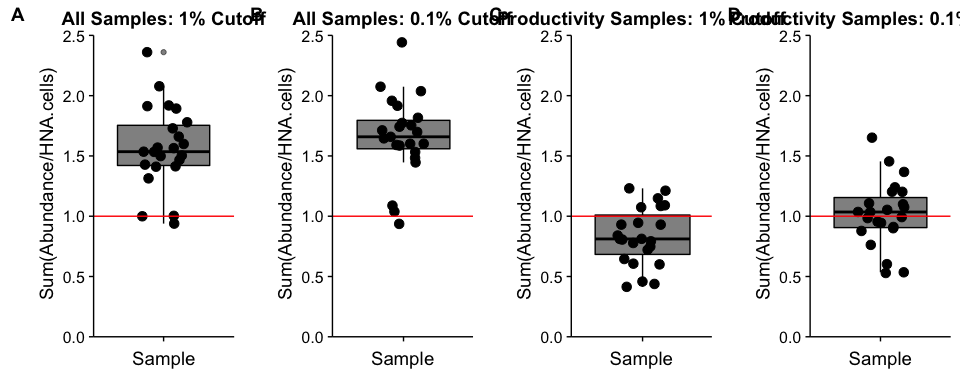
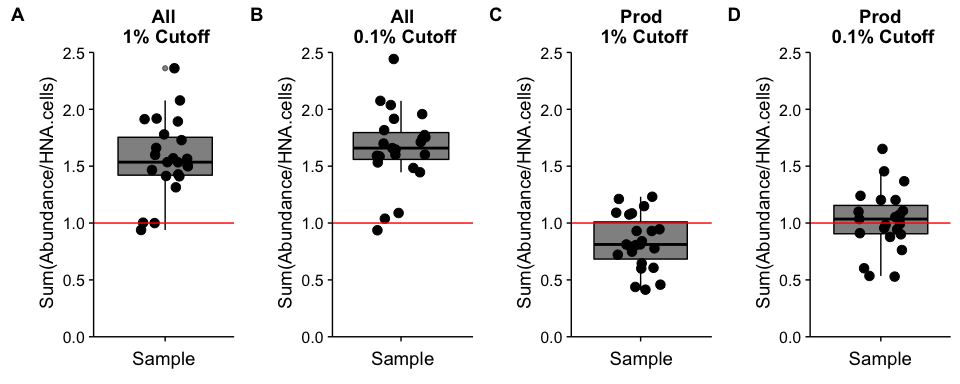
small figure fix

diff --git a/Final/OutliersRemoved/Selected OTUs/selected_otu_analysis.md b/Final/OutliersRemoved/Selected OTUs/selected_otu_analysis.md
@@ -246,7 +246,7 @@ HNA_frac_otus_stand_0.01 <- calc_fraction_HNA(AbsAbund_OTUs = AbsAbund_otus_stan
 plot1 <- ggplot(HNA_frac_otus_stand_0.01, 
        aes(y = sum_fracHNA, x = All_Samples, color = "All_Samples", fill = "All_Samples")) +
   geom_boxplot(alpha = 0.5) +   geom_point(size = 3, position = position_jitterdodge()) +
-  ggtitle("All Samples: 1% Cutoff") + ylab("\n Sum(Abundance/HNA.cells)") + xlab("Sample") +
+  ggtitle("All\n 1% Cutoff") + ylab("\n Sum(Abundance/HNA.cells)") + xlab("Sample") +
   scale_color_manual(values = "black") + scale_fill_manual(values = "black") +
   geom_abline(intercept = 1, slope = 0, color = "red") +                                   # Draw a line at 1 
   scale_y_continuous(expand = c(0,0),limits = c(0, 2.5), breaks = seq(0, 2.5, by = 0.5)) +
@@ -424,7 +424,7 @@ HNA_frac_otus_stand_0.001 <- calc_fraction_HNA(AbsAbund_OTUs = AbsAbund_otus_sta
 plot2 <- ggplot(HNA_frac_otus_stand_0.001, 
        aes(y = sum_fracHNA, x = All_Samples, color = "All_Samples", fill = "All_Samples")) +
   geom_boxplot(alpha = 0.5, outlier.shape = NA) +   geom_point(size = 3, position = position_jitterdodge()) +
-  ggtitle("All Samples: 0.1% Cutoff") + ylab("\n Sum(Abundance/HNA.cells)") + xlab("Sample") +
+  ggtitle("All\n 0.1% Cutoff") + ylab("\n Sum(Abundance/HNA.cells)") + xlab("Sample") +
   scale_color_manual(values = "black") + scale_fill_manual(values = "black") +
   geom_abline(intercept = 1, slope = 0, color = "red") +                                   # Draw a line at 1 
   scale_y_continuous(expand = c(0,0),limits = c(0, 2.5), breaks = seq(0, 2.5, by = 0.5)) +
@@ -481,7 +481,7 @@ HNA_frac_otus_prod_0.01 <- calc_fraction_HNA(AbsAbund_OTUs = AbsAbund_otus_prod_
 plot3 <- ggplot(HNA_frac_otus_prod_0.01, 
        aes(y = sum_fracHNA, x = All_Samples, color = "All_Samples", fill = "All_Samples")) +
   geom_boxplot(alpha = 0.5, outlier.shape = NA) +   geom_point(size = 3, position = position_jitterdodge()) +
-  ggtitle("Productivity Samples: 1% Cutoff") + ylab("\n Sum(Abundance/HNA.cells)") + xlab("Sample") +
+  ggtitle("Prod\n 1% Cutoff") + ylab("\n Sum(Abundance/HNA.cells)") + xlab("Sample") +
   scale_color_manual(values = "black") + scale_fill_manual(values = "black") +
   geom_abline(intercept = 1, slope = 0, color = "red") +                                   # Draw a line at 1 
   scale_y_continuous(expand = c(0,0),limits = c(0, 2.5), breaks = seq(0, 2.5, by = 0.5)) +
@@ -561,7 +561,7 @@ HNA_frac_otus_prod_0.001 <- calc_fraction_HNA(AbsAbund_OTUs = AbsAbund_otus_prod
 plot4 <- ggplot(HNA_frac_otus_prod_0.001, 
        aes(y = sum_fracHNA, x = All_Samples, color = "All_Samples", fill = "All_Samples")) +
   geom_boxplot(alpha = 0.5, outlier.shape = NA) +   geom_point(size = 3, position = position_jitterdodge()) +
-  ggtitle("Productivity Samples: 0.1% Cutoff") + ylab("\n Sum(Abundance/HNA.cells)") + xlab("Sample") +
+  ggtitle("Prod\n 0.1% Cutoff") + ylab("\n Sum(Abundance/HNA.cells)") + xlab("Sample") +
   scale_color_manual(values = "black") + scale_fill_manual(values = "black") +
   geom_abline(intercept = 1, slope = 0, color = "red") +                                   # Draw a line at 1 
   scale_y_continuous(expand = c(0,0),limits = c(0, 2.5), breaks = seq(0, 2.5, by = 0.5)) +
